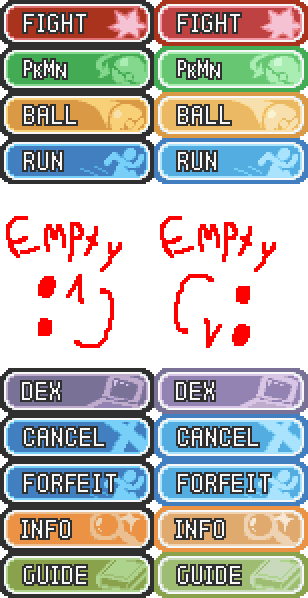
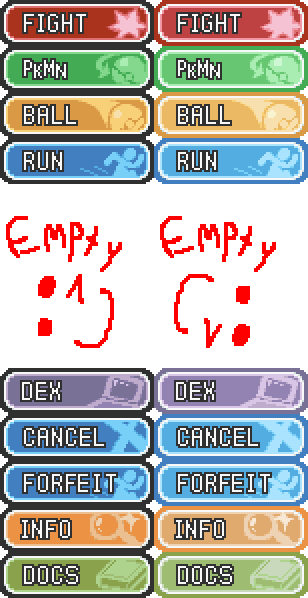
Replace the "Guide" button in battles with the "Docs" button
Works the same as the one on the pause menu

Changed region(s): [[0.5844, 0.9331, 0.789, 0.9933], [0.0877, 0.9331, 0.2922, 0.9933]]

diff --git a/Plugins/Tectonic Graphics and UI/Menus/DocumentationMenu.rb b/Plugins/Tectonic Graphics and UI/Menus/DocumentationMenu.rb
@@ -6,40 +6,9 @@ class PokemonDocumentationMenu_Scene
 		@sprites["cmdwindow"] = Window_CommandPokemon.new([])
 		@sprites["cmdwindow"].visible = false
 		@sprites["cmdwindow"].viewport = @viewport
-		@sprites["infowindow"] = Window_UnformattedTextPokemon.newWithSize("",0,0,32,32,@viewport)
-		@sprites["infowindow"].visible = false
-		@sprites["helpwindow"] = Window_UnformattedTextPokemon.newWithSize("",0,0,32,32,@viewport)
-		@sprites["helpwindow"].visible = false
 		@infostate = false
 		@helpstate = false
 		pbSEPlay("GUI menu open")
-	  end
-	
-	  def pbShowInfo(text)
-		@sprites["infowindow"].resizeToFit(text,Graphics.height)
-		@sprites["infowindow"].text    = text
-		@sprites["infowindow"].visible = true
-		@infostate = true
-	  end
-	
-	  def pbShowHelp(text)
-		@sprites["helpwindow"].resizeToFit(text,Graphics.height)
-		@sprites["helpwindow"].text    = text
-		@sprites["helpwindow"].visible = true
-		pbBottomLeft(@sprites["helpwindow"])
-		@helpstate = true
-	  end
-	
-	  def pbShowMenu
-		@sprites["cmdwindow"].visible = true
-		@sprites["infowindow"].visible = @infostate
-		@sprites["helpwindow"].visible = @helpstate
-	  end
-	
-	  def pbHideMenu
-		@sprites["cmdwindow"].visible = false
-		@sprites["infowindow"].visible = false
-		@sprites["helpwindow"].visible = false
 	  end
 	
 	  def pbShowCommands(commands)
@@ -114,4 +83,10 @@ class PokemonDocumentationMenu < PokemonPauseMenu
 		end
 		@scene.pbEndScene if endscene
 	end
+end
+
+def showDocumentationMenu
+    docsMenuScene = PokemonDocumentationMenu_Scene.new
+    docsMenuScreen = PokemonDocumentationMenu.new(docsMenuScene)
+    docsMenuScreen.pbStartPokemonMenu
 end

diff --git a/Plugins/Tectonic Battle/Scene/SceneMenus/TargetMenuDisplay.rb b/Plugins/Tectonic Battle/Scene/SceneMenus/TargetMenuDisplay.rb
@@ -5,7 +5,7 @@
 #===============================================================================
 class TargetMenuDisplay < BattleMenuBase
     attr_accessor :mode
-    attr_reader :dexSelect
+    attr_accessor :dexSelect
   
     # Lists of which button graphics to use in different situations/types of battle.
     MODES = [
@@ -32,7 +32,6 @@ class TargetMenuDisplay < BattleMenuBase
 		#       0=select 1 button (@index), 1=select all buttons with text
 		# Create bitmaps
 		@buttonBitmap = AnimatedBitmap.new(addLanguageSuffix(("Graphics/Pictures/Battle/cursor_target")))
-		@dexReminderBitmap 		= AnimatedBitmap.new(addLanguageSuffix(("Graphics/Pictures/Battle/pokedex_reminder")))
 		# Create target buttons
 		@buttons = Array.new(maxIndex+1) do |i|
 		  numButtons = @sideSizes[i%2]
@@ -63,14 +62,6 @@ class TargetMenuDisplay < BattleMenuBase
 		pbSetNarrowFont(@overlay.bitmap)
 		addSprite("overlay",@overlay)
 		
-		# Create dex reminder
-		@dexReminder = SpriteWrapper.new(viewport)
-		@dexReminder.bitmap = @dexReminderBitmap.bitmap
-		@dexReminder.x = self.x + 4
-		@dexReminder.y = self.y - @dexReminderBitmap.height
-		@dexReminder.visible = false
-		addSprite("dexReminder",@dexReminder)
-		
 		self.z = z
 		refresh
 	end
@@ -78,18 +69,12 @@ class TargetMenuDisplay < BattleMenuBase
 	def dispose
 		super
 		@buttonBitmap.dispose if @buttonBitmap
-		@dexReminderBitmap.dispose if @dexReminderBitmap
 	end
   
     def z=(value)
       super
       @overlay.z += 5 if @overlay
     end
-
-    def dexSelect=(value)
-		dexSelect = value
-		@dexReminder.visible = value
-	end
   
     def setDetails(texts,mode)
       @texts = texts

diff --git a/Plugins/Tectonic Graphics and UI/Menus/GameInfoMenu.rb b/Plugins/Tectonic Graphics and UI/Menus/GameInfoMenu.rb
@@ -6,40 +6,9 @@ class PokemonGameInfoMenu_Scene
 		@sprites["cmdwindow"] = Window_CommandPokemon.new([])
 		@sprites["cmdwindow"].visible = false
 		@sprites["cmdwindow"].viewport = @viewport
-		@sprites["infowindow"] = Window_UnformattedTextPokemon.newWithSize("",0,0,32,32,@viewport)
-		@sprites["infowindow"].visible = false
-		@sprites["helpwindow"] = Window_UnformattedTextPokemon.newWithSize("",0,0,32,32,@viewport)
-		@sprites["helpwindow"].visible = false
 		@infostate = false
 		@helpstate = false
 		pbSEPlay("GUI menu open")
-	  end
-	
-	  def pbShowInfo(text)
-		@sprites["infowindow"].resizeToFit(text,Graphics.height)
-		@sprites["infowindow"].text    = text
-		@sprites["infowindow"].visible = true
-		@infostate = true
-	  end
-	
-	  def pbShowHelp(text)
-		@sprites["helpwindow"].resizeToFit(text,Graphics.height)
-		@sprites["helpwindow"].text    = text
-		@sprites["helpwindow"].visible = true
-		pbBottomLeft(@sprites["helpwindow"])
-		@helpstate = true
-	  end
-	
-	  def pbShowMenu
-		@sprites["cmdwindow"].visible = true
-		@sprites["infowindow"].visible = @infostate
-		@sprites["helpwindow"].visible = @helpstate
-	  end
-	
-	  def pbHideMenu
-		@sprites["cmdwindow"].visible = false
-		@sprites["infowindow"].visible = false
-		@sprites["helpwindow"].visible = false
 	  end
 	
 	  def pbShowCommands(commands)

diff --git a/Plugins/Tectonic Battle/Scene/PokeBattle_Scene_Commands.rb b/Plugins/Tectonic Battle/Scene/PokeBattle_Scene_Commands.rb
@@ -589,12 +589,6 @@ class PokeBattle_Scene
               cw.index = idxBattlerTry
               break
             end
-        elsif Input.trigger?(Input::ACTION) && dexSelect
-          pbFadeOutIn {
-            scene = PokemonPokedex_Scene.new
-            screen = PokemonPokedexScreen.new(scene)
-            screen.pbStartScreen
-          }
           end
           if cw.index!=oldIndex
             pbPlayCursorSE

diff --git a/Plugins/Tectonic Battle/Battle/Phases/Battle_Phase_Command.rb b/Plugins/Tectonic Battle/Battle/Phases/Battle_Phase_Command.rb
@@ -512,8 +512,8 @@ class PokeBattle_Battle
                         commandsEnd = true
                         break
                     end
-                when 6 # Battle Guide
-                    showBattleGuide
+                when 6 # Documentation menu
+                    showDocumentationMenu
                 when -2   # Debug
                     pbDebugMenu
                     next
